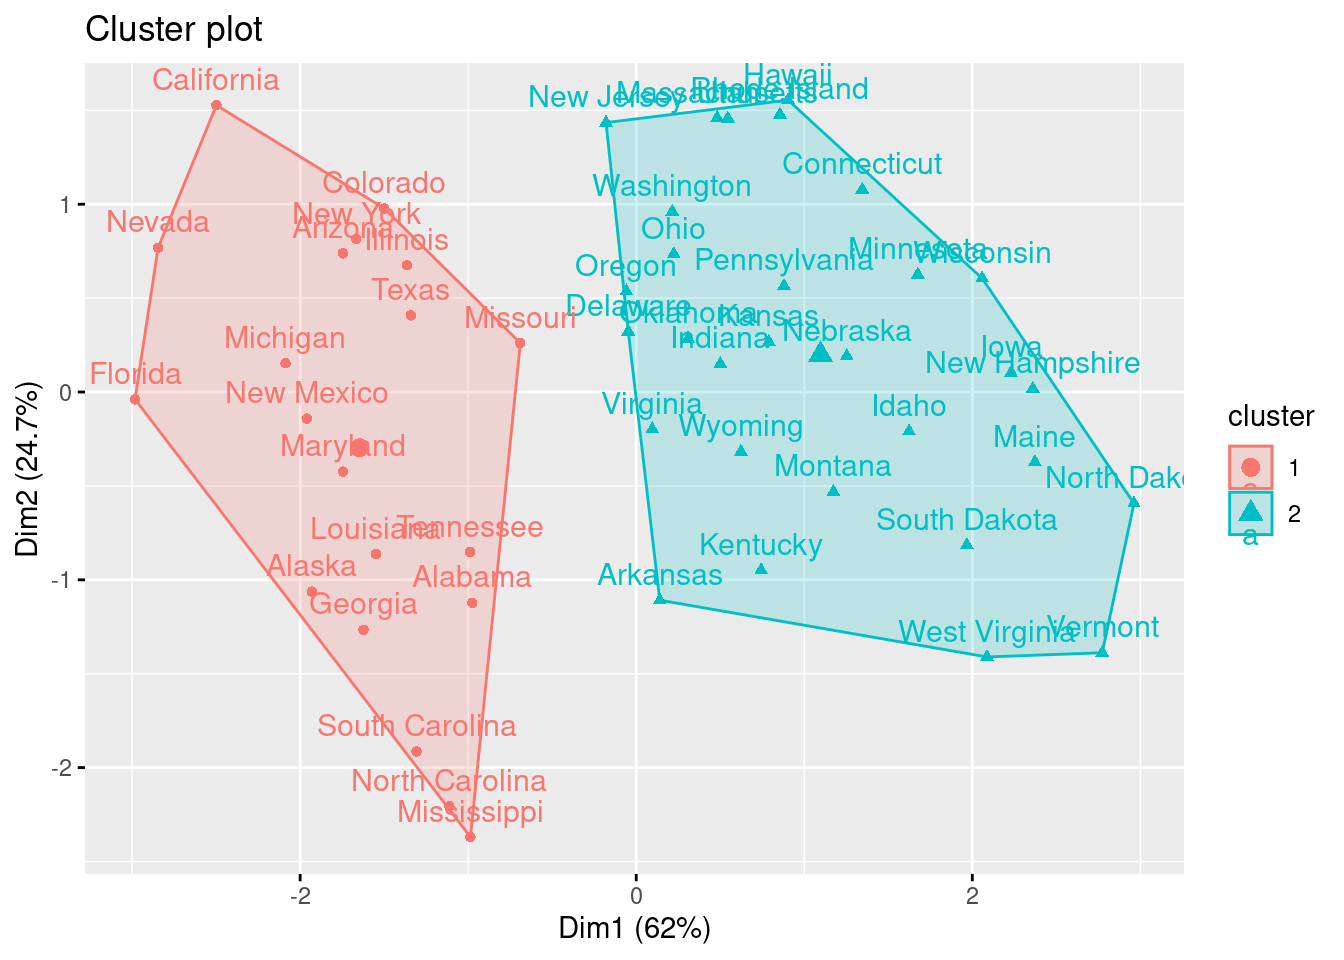
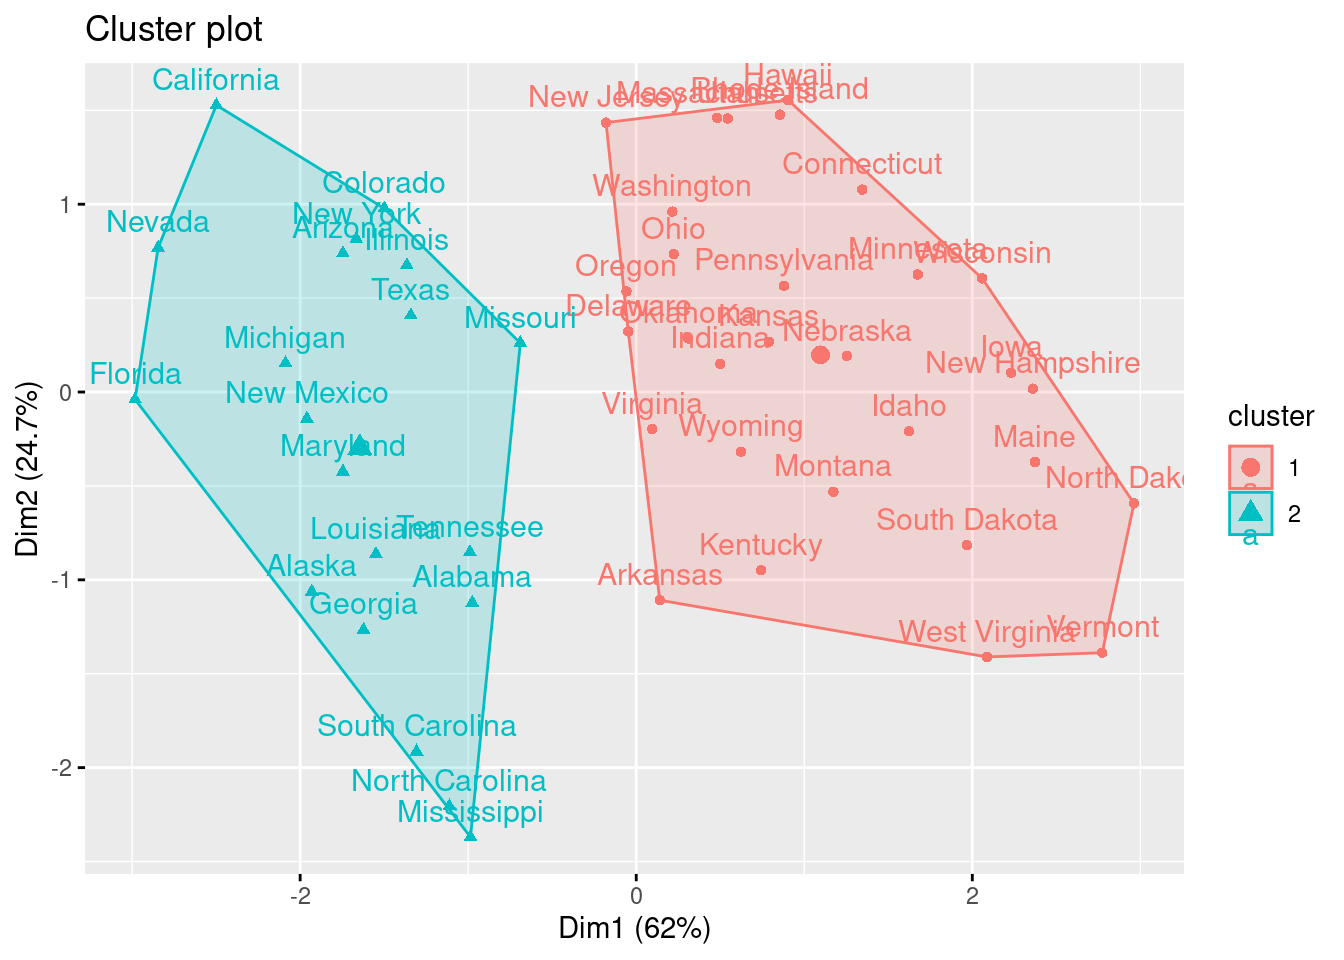
libro actualizado con comentario de transformaciones en particiones´

Changed region(s): [[0.0625, 0.0625, 0.875, 0.875]]

diff --git a/docs/aprnosup.html b/docs/aprnosup.html
@@ -507,17 +507,17 @@ Colorado   0.02571456 0.3988593  0.8608085  1.864967207</code></pre>
 <span id="cb10-2"><a href="#cb10-2" aria-hidden="true" tabindex="-1"></a><span class="fu">str</span>(k2)</span></code><button title="Copiar al portapapeles" class="code-copy-button"><i class="bi"></i></button></pre></div>
 <div class="cell-output cell-output-stdout">
 <pre><code>List of 9
- $ cluster     : Named int [1:50] 1 1 1 2 1 1 2 2 1 1 ...
+ $ cluster     : Named int [1:50] 2 2 2 1 2 2 1 1 2 2 ...
   ..- attr(*, "names")= chr [1:50] "Alabama" "Alaska" "Arizona" "Arkansas" ...
- $ centers     : num [1:2, 1:4] 1.005 -0.67 1.014 -0.676 0.198 ...
+ $ centers     : num [1:2, 1:4] -0.67 1.005 -0.676 1.014 -0.132 ...
   ..- attr(*, "dimnames")=List of 2
   .. ..$ : chr [1:2] "1" "2"
   .. ..$ : chr [1:4] "Murder" "Assault" "UrbanPop" "Rape"
  $ totss       : num 196
- $ withinss    : num [1:2] 46.7 56.1
+ $ withinss    : num [1:2] 56.1 46.7
  $ tot.withinss: num 103
  $ betweenss   : num 93.1
- $ size        : int [1:2] 20 30
+ $ size        : int [1:2] 30 20
  $ iter        : int 1
  $ ifault      : int 0
  - attr(*, "class")= chr "kmeans"</code></pre>
@@ -540,37 +540,37 @@ Tarea
 <div class="cell">
 <div class="sourceCode cell-code" id="cb12"><pre class="sourceCode r code-with-copy"><code class="sourceCode r"><span id="cb12-1"><a href="#cb12-1" aria-hidden="true" tabindex="-1"></a>k2 </span></code><button title="Copiar al portapapeles" class="code-copy-button"><i class="bi"></i></button></pre></div>
 <div class="cell-output cell-output-stdout">
-<pre><code>K-means clustering with 2 clusters of sizes 20, 30
+<pre><code>K-means clustering with 2 clusters of sizes 30, 20
 
 Cluster means:
      Murder    Assault   UrbanPop       Rape
-1  1.004934  1.0138274  0.1975853  0.8469650
-2 -0.669956 -0.6758849 -0.1317235 -0.5646433
+1 -0.669956 -0.6758849 -0.1317235 -0.5646433
+2  1.004934  1.0138274  0.1975853  0.8469650
 
 Clustering vector:
        Alabama         Alaska        Arizona       Arkansas     California 
-             1              1              1              2              1 
+             2              2              2              1              2 
       Colorado    Connecticut       Delaware        Florida        Georgia 
-             1              2              2              1              1 
-        Hawaii          Idaho       Illinois        Indiana           Iowa 
-             2              2              1              2              2 
-        Kansas       Kentucky      Louisiana          Maine       Maryland 
-             2              2              1              2              1 
- Massachusetts       Michigan      Minnesota    Mississippi       Missouri 
-             2              1              2              1              1 
-       Montana       Nebraska         Nevada  New Hampshire     New Jersey 
-             2              2              1              2              2 
-    New Mexico       New York North Carolina   North Dakota           Ohio 
-             1              1              1              2              2 
-      Oklahoma         Oregon   Pennsylvania   Rhode Island South Carolina 
-             2              2              2              2              1 
-  South Dakota      Tennessee          Texas           Utah        Vermont 
              2              1              1              2              2 
+        Hawaii          Idaho       Illinois        Indiana           Iowa 
+             1              1              2              1              1 
+        Kansas       Kentucky      Louisiana          Maine       Maryland 
+             1              1              2              1              2 
+ Massachusetts       Michigan      Minnesota    Mississippi       Missouri 
+             1              2              1              2              2 
+       Montana       Nebraska         Nevada  New Hampshire     New Jersey 
+             1              1              2              1              1 
+    New Mexico       New York North Carolina   North Dakota           Ohio 
+             2              2              2              1              1 
+      Oklahoma         Oregon   Pennsylvania   Rhode Island South Carolina 
+             1              1              1              1              2 
+  South Dakota      Tennessee          Texas           Utah        Vermont 
+             1              2              2              1              1 
       Virginia     Washington  West Virginia      Wisconsin        Wyoming 
-             2              2              2              2              2 
+             1              1              1              1              1 
 
 Within cluster sum of squares by cluster:
-[1] 46.74796 56.11445
+[1] 56.11445 46.74796
  (between_SS / total_SS =  47.5 %)
 
 Available components:
@@ -655,8 +655,8 @@ Nombrar los grupos
 <span id="cb18-3"><a href="#cb18-3" aria-hidden="true" tabindex="-1"></a><span class="fu">fviz_silhouette</span>(sil)</span></code><button title="Copiar al portapapeles" class="code-copy-button"><i class="bi"></i></button></pre></div>
 <div class="cell-output cell-output-stdout">
 <pre><code>  cluster size ave.sil.width
-1       1   20          0.37
-2       2   30          0.43</code></pre>
+1       1   30          0.43
+2       2   20          0.37</code></pre>
 </div>
 <div class="cell-output-display">
 <p><img src="aprnosup_files/figure-html/unnamed-chunk-9-1.png" class="img-fluid" width="672"></p>

diff --git a/docs/data.html b/docs/data.html
@@ -665,15 +665,15 @@ Fuentes de datos
 <span id="cb9-4"><a href="#cb9-4" aria-hidden="true" tabindex="-1"></a>datos</span></code><button title="Copiar al portapapeles" class="code-copy-button"><i class="bi"></i></button></pre></div>
 <div class="cell-output cell-output-stdout">
 <pre><code>   x  y char
-1  1  1    A
+1  1  1    C
 2  1  2    A
 3  1  3    B
-4  1  4    C
-5  1  5    B
-6  1  6    C
-7  1  7    C
+4  1  4    B
+5  1  5    A
+6  1  6    A
+7  1  7    A
 8  1  8    C
-9  1  9    A
+9  1  9    B
 10 1 10    A</code></pre>
 </div>
 <div class="sourceCode cell-code" id="cb11"><pre class="sourceCode r code-with-copy"><code class="sourceCode r"><span id="cb11-1"><a href="#cb11-1" aria-hidden="true" tabindex="-1"></a><span class="fu">is.data.frame</span>(datos)</span></code><button title="Copiar al portapapeles" class="code-copy-button"><i class="bi"></i></button></pre></div>
